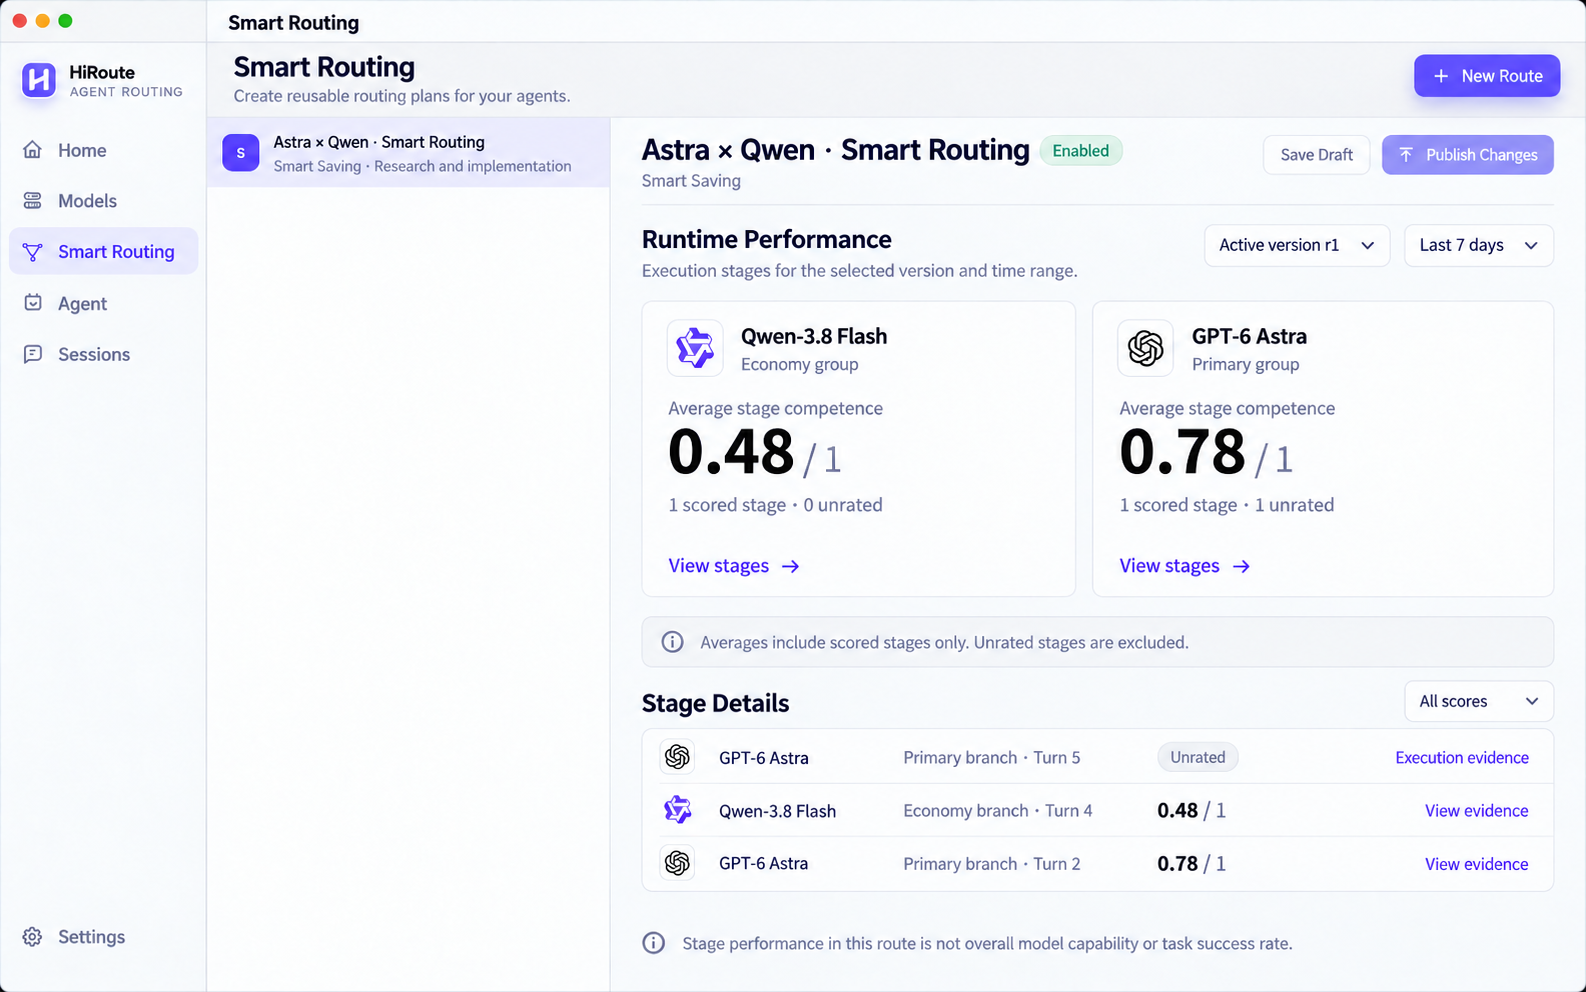
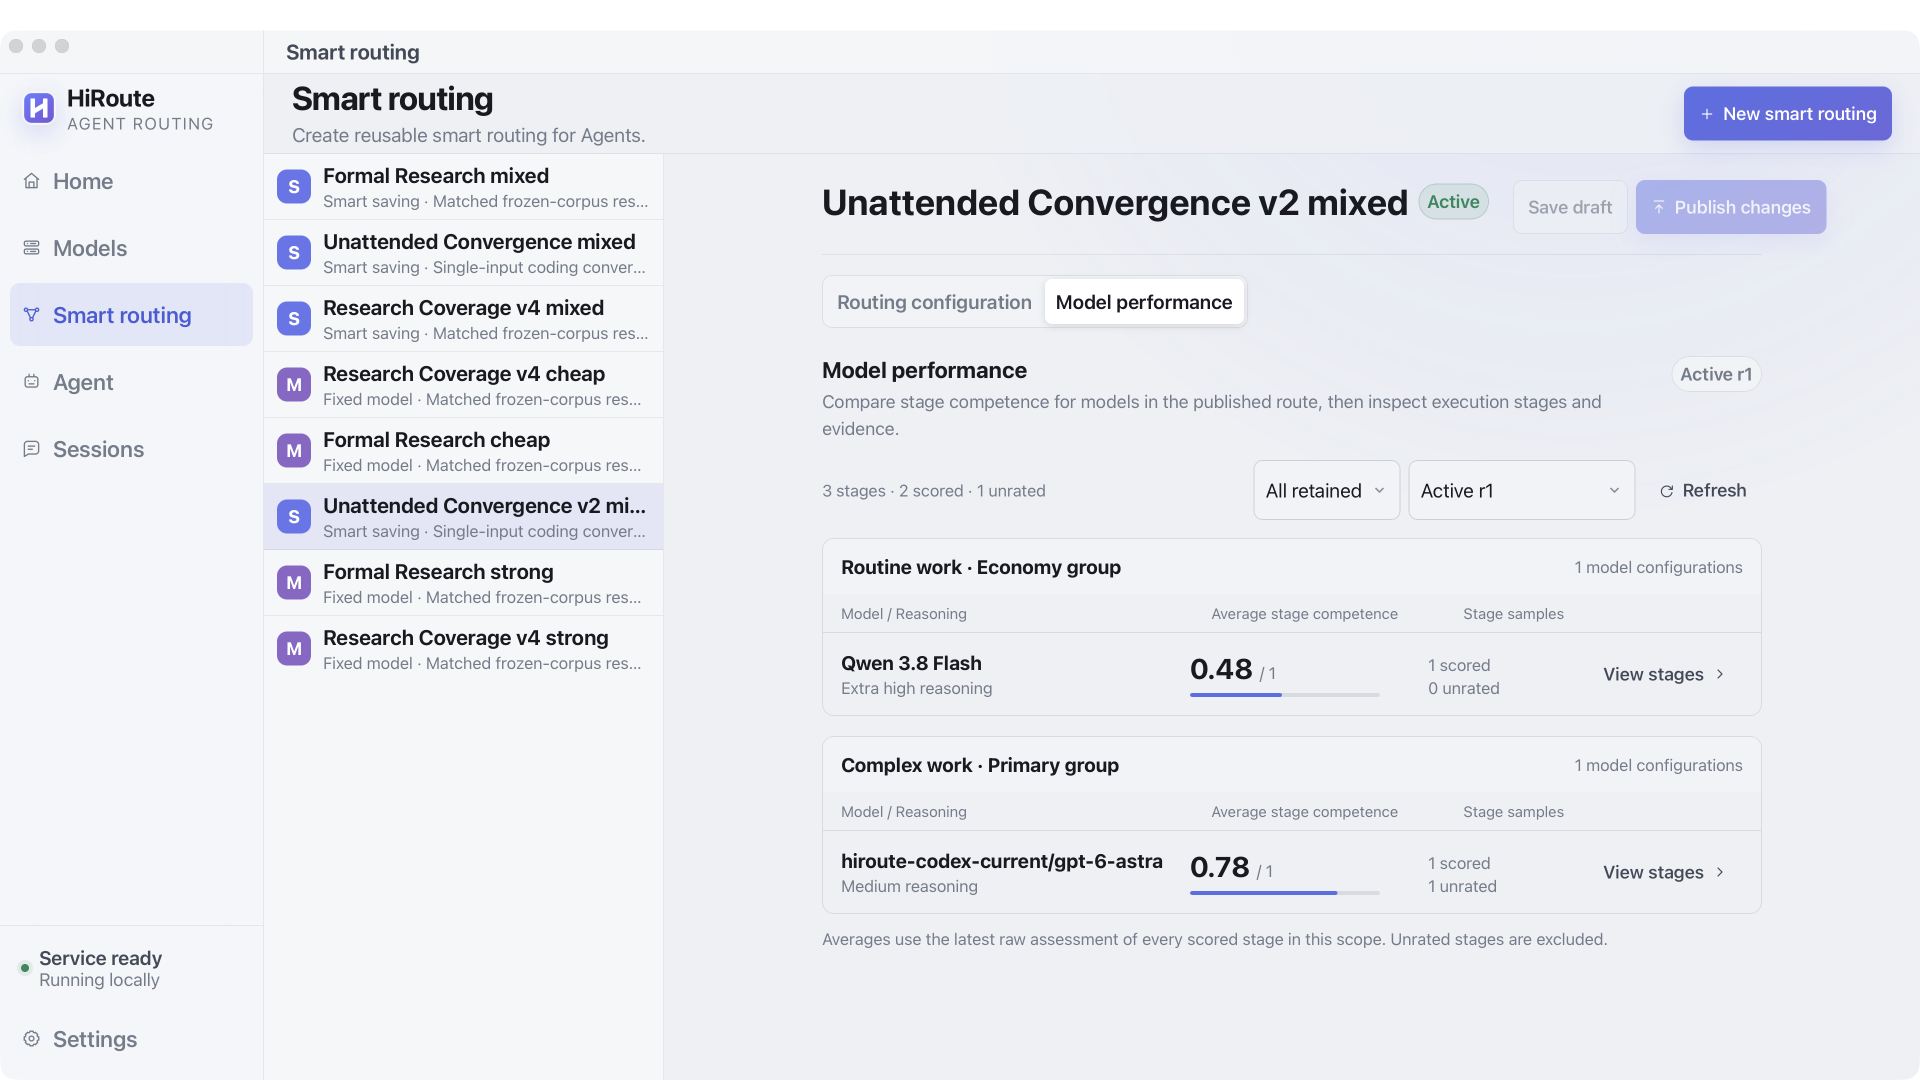
docs(news): replace competence mockups with native Desktop captures

diff --git a/news/ILLUSTRATIONS.md b/news/ILLUSTRATIONS.md
@@ -96,23 +96,24 @@ as current product evidence or substitute a new score into the frozen case.
 
 ## Competence product views
 
-Two additional images explain the intended final observation interface:
+The four images are native captures of HiRoute Desktop on macOS:
 
 - Session model performance ([Chinese](assets/desktop-session-competence-zh.png) /
-  [English](assets/desktop-session-competence-en.png)): actual models,
-  stage scores, assessment coverage and evidence links.
-- Routing-plan performance ([Chinese](assets/desktop-plan-competence-zh.png) /
-  [English](assets/desktop-plan-competence-en.png)): model averages
-  within one plan version and time range, with scored and unrated stage counts.
+  [English](assets/desktop-session-competence-en.png)): actual execution models,
+  reasoning settings, stage scores and evidence actions.
+- Routing-plan model performance ([Chinese](assets/desktop-plan-competence-zh.png) /
+  [English](assets/desktop-plan-competence-en.png)): model configurations grouped
+  by execution branch, scoped averages, and scored/unrated stage counts.
 
-These images were generated with the built-in `image_gen` tool. They are product-design
-assets, not native Desktop captures. The per-model aggregate view is planned
-functionality; the images do not establish that its implementation has passed
-acceptance. The article describes the intended final interface. Production notes are
-kept here and in the [complete prompts and data record](competence-product-views.json),
-without overlays on the images.
+Desktop reads an isolated copy of the unchanged observation records retained from
+this HTTPX case. The images come from the production UI and local daemon, without
+mock IPC, generated interface text or image edits. Both languages were selected
+through the app's settings. Native validation covered stage and assessment-trigger
+navigation, exact model drill-down, unrated filtering, scope changes, refresh on
+re-entry, and preserving draft settings without changing published-plan statistics.
+Capture hashes, binary hashes and the source evidence archive are recorded in
+[the capture provenance](competence-product-views.json).
 
-The values follow the visible execution stages in the retained HTTPX observation:
 Qwen has one scored stage at 0.485; Astra has one at 0.775 and one unrated stage.
 The existing two-decimal display produces 0.48 and 0.78. The earlier 0.410 assessment
 lacks an attributed visible execution stage and is excluded from this product-view
@@ -120,14 +121,10 @@ average. A prior 0.615 assessment of the later Qwen stage is not another indepen
 stage. No score has been added to the final Astra stage.
 
 Stage scores describe different stretches of work, not a controlled model ranking
-or whole-delivery acceptance. Partial-assessment and historical-gap states remain
-part of the underlying evidence; their notices belong in expanded evidence details
-in this design. Removing them from the primary view does not alter the experiment
-records. Each language edition uses matching localized interface images. The English
-versions translate the navigation, filters, labels, actions and explanatory text while
-preserving the source layout, model identities, numerical values, stage counts and
-unrated state. Their source-image hashes and exact localization prompts are retained
-in the same provenance record.
+or whole-delivery acceptance. Retained diagnostic states and raw identities are
+available in expanded stage details. The captures validate the product's observation
+interface; they do not constitute a new model-quality experiment. Each article uses
+matching localized images and the same original numerical values and stage counts.
 
 ## Local architecture
 

diff --git a/news/2026-10-04-astra-qwen.en.md b/news/2026-10-04-astra-qwen.en.md
@@ -118,13 +118,13 @@ This case shows execution feedback influencing model selection throughout the ta
 
 ### Inspect each stage in HiRoute
 
-That execution feedback is also available for inspection. A session's **Model performance** view shows the actual model, competence score and assessment coverage for each execution stage. If progress looks insufficient, execution-evidence and assessment-feedback links lead back to the relevant activity. Stages that have not received a score remain visible too.
+These screenshots show the updated HiRoute Desktop reading the observation records retained from this case. A session's **Model performance** view shows the actual model, reasoning setting, stage competence and execution turns. Open execution evidence to inspect the activity; expand assessment details to check coverage and open the assessment-trigger request. Stages that have not received a score remain visible too.
 
 [![Session model performance: inspect Qwen and Astra stage scores, assessment coverage and evidence links](assets/desktop-session-competence-en.png)](assets/desktop-session-competence-en.png)
 
-A routing plan's **Runtime performance** view provides a broader perspective. Select a plan version and time range to see each model's average stage competence, together with counts of scored and unrated stages. Open a model's stages to inspect the underlying execution and assess which combination fits your tasks. The average includes scored stages only; unrated stages do not enter the calculation.
+A routing plan's **Model performance** tab provides a broader perspective. Select a plan version and time range to inspect model configurations within each execution group, with average stage competence and counts of scored and unrated stages. A group can contain multiple models; different reasoning settings remain separate, and rows follow the plan's candidate order. Open a model's stages to inspect the underlying execution and assess which combination fits your tasks. Averages use the latest raw assessment of each scored stage in the scope; unrated stages are excluded.
 
-[![Routing-plan performance: inspect model averages and stage counts within one version and time range](assets/desktop-plan-competence-en.png)](assets/desktop-plan-competence-en.png)
+[![Routing-plan model performance: inspect model configurations, averages and stage counts by execution group](assets/desktop-plan-competence-en.png)](assets/desktop-plan-competence-en.png)
 
 ## Enterprise gateway experience, lightweight local execution
 

diff --git a/news/2026-10-04-astra-qwen.zh-CN.md b/news/2026-10-04-astra-qwen.zh-CN.md
@@ -118,13 +118,13 @@ Qwen 的资料整理并不差，差距主要出现在最后的判断：两次建
 
 ### 回到 HiRoute，看清每个阶段的表现
 
-这些执行反馈也能在 HiRoute 中回看。会话的**模型表现**按执行阶段展示实际使用的模型、胜任度和评分覆盖范围。发现某一段进展不理想，可以沿“执行证据”和“评分触发反馈”定位相关过程；尚未产生评分的阶段也会保留展示。
+本文截图由新版 HiRoute Desktop 读取这次实战保留的观测记录生成。会话的**模型表现**按执行阶段展示实际使用的模型、思考设置、阶段胜任度和执行轮次。点击“执行证据”回看相关过程，在“评分详情”中核对评分覆盖范围并打开评分触发请求；尚未产生评分的阶段也会保留展示。
 
 [![会话中的模型表现：查看 Qwen 与 Astra 各执行阶段的胜任度、覆盖范围和证据入口](assets/desktop-session-competence-zh.png)](assets/desktop-session-competence-zh.png)
 
-路由计划的**运行表现**则提供更长时间范围的视角：选定计划版本和时间范围，查看各模型的阶段平均胜任度，以及已评分、未评分的阶段数。点击“查看阶段”可以继续核对具体执行，帮助判断怎样的模型组合更适合自己的任务。均值按已评分阶段计算，未评分阶段不计入。
+路由计划的**模型表现**提供更长时间范围的视角：选定计划版本和时间范围，按执行分组查看模型配置的阶段平均胜任度，以及已评分、未评分的阶段数。一个分组可以包含多个模型，同一模型的不同思考设置分别展示，并保持计划中的候选顺序。点击“查看阶段”继续核对具体执行，帮助判断怎样的模型组合更适合自己的任务。均值使用范围内每个已评分阶段的最新原始评分，未评分阶段不计入。
 
-[![路由计划中的运行表现：在同一版本和时间范围内查看各模型的阶段平均胜任度与样本数](assets/desktop-plan-competence-zh.png)](assets/desktop-plan-competence-zh.png)
+[![路由计划中的模型表现：按执行分组查看模型配置的阶段平均胜任度与样本数](assets/desktop-plan-competence-zh.png)](assets/desktop-plan-competence-zh.png)
 
 ## 企业级网关实践，轻量本地实现
 
